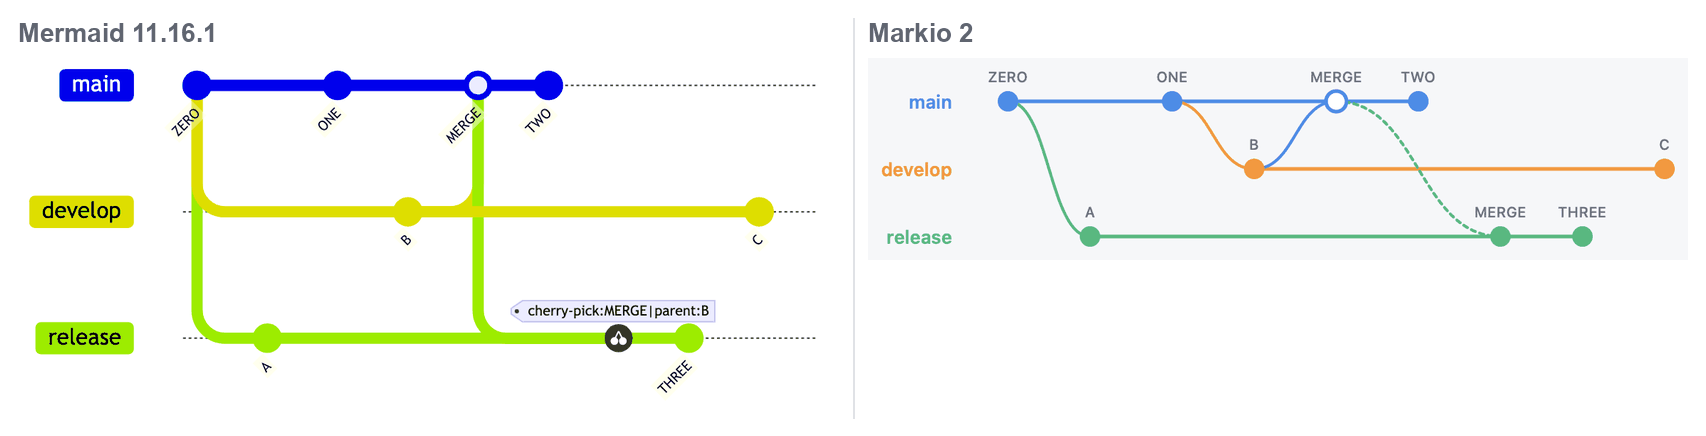
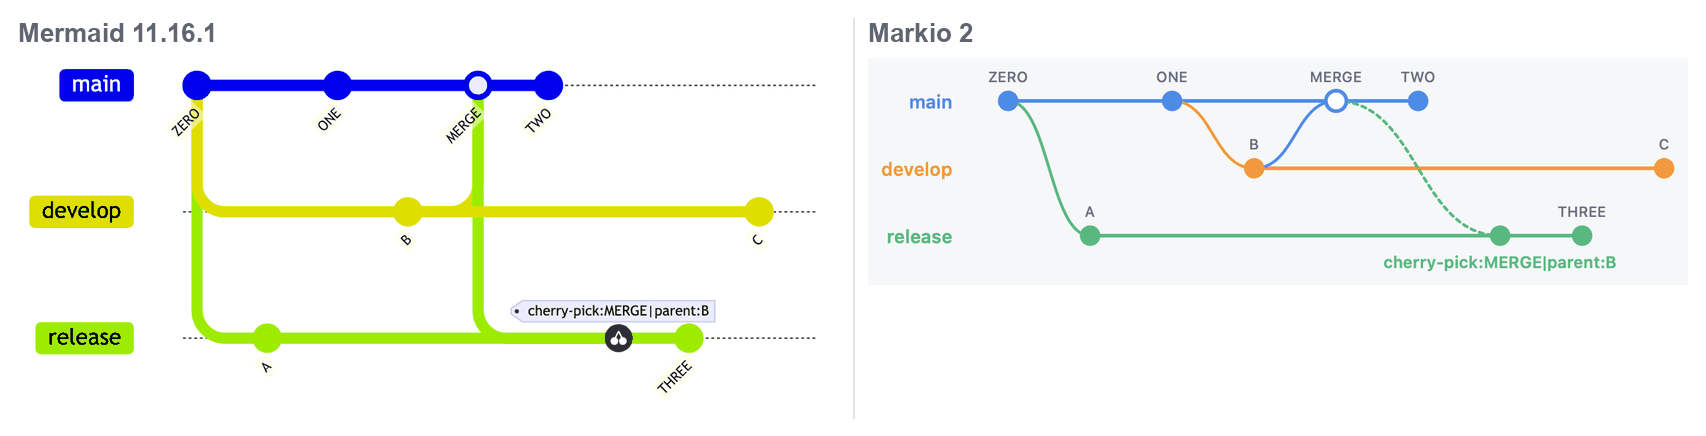
fix: let a cherry-pick say that it is one
A copy was written under the name of the commit it copied, so two dots on two
lanes claimed to be the same commit. It now carries the tag Mermaid gives it:
`cherry-pick:MERGE|parent:B` — the commit it was picked from, and the parent it
came through when that commit was a merge and so had two sides to pick from. A
tag the author wrote stands instead of it.

Two commits are never named, which is Mermaid's own rule read off the condition
it draws a commit label under: a copy, which goes by its tag, and a merge its
author did not name, which is read from the two lines meeting at it.

A tag may run to a sentence, and holding the commits far enough apart to fit one
stretched the whole graph for a single word — enough to push the last commits off
a picture that had room for them. A tag now overlaps what stands beside it, the
way it does in Mermaid, and the picture grows only by what hangs off either end.

diff --git a/Sources/MarkioRender/MermaidLayout.swift b/Sources/MarkioRender/MermaidLayout.swift
@@ -3013,18 +3013,27 @@ enum MermaidLayout {
         // commits becomes a row of them, and the branch names sit above their
         // lanes rather than beside them.
         let down = graph.vertical
+        /// What is written under a commit's dot, and nothing when nothing is.
+        ///
+        /// A commit's own name is its place in the graph unless its author gave
+        /// it one. A merge is named only by its author: a merge is read from the
+        /// two lines meeting at it, and a number under it says nothing they do
+        /// not. A copy is not named at all — it goes by the tag saying what it
+        /// was picked from. Both are Mermaid's rules, in the one condition it
+        /// writes a commit label under.
+        func named(_ order: Int, _ commit: GitGraph.Commit) -> String {
+            guard graph.names, commit.picks == nil else { return "" }
+            if commit.merges != nil { return commit.label }
+            return commit.label.isEmpty ? "\(order)" : commit.label
+        }
         // A commit is named under its dot, and a name is far wider than a dot:
         // laid across the page the commits have to stand as far apart as their
-        // names, or a row of hashes runs into itself. Down the page the names
+        // names, or a row of names runs into itself. Down the page the names
         // stack instead and the dots need no more room than they take.
         let tagFont = scaled(theme.bodyBold, by: metrics.scale * 0.8)
         let widest =
-            graph.commits.map { commit in
-                max(
-                    graph.names
-                        ? measure(text(commit.label, font: font, color: theme.palette.text)).width
-                        : 0,
-                    measure(text(commit.tag, font: tagFont, color: theme.palette.text)).width)
+            graph.commits.enumerated().map { order, commit in
+                measure(text(named(order, commit), font: font, color: theme.palette.text)).width
             }.max() ?? 0
         let step = down ? 56 * metrics.scale : max(56 * metrics.scale, widest + 8 * metrics.scale)
         let lane = 46 * metrics.scale
@@ -3034,9 +3043,20 @@ enum MermaidLayout {
             (graph.branches.map {
                 measure(text($0, font: branchFont, color: theme.palette.text)).height
             }.max() ?? 0) + 10 * metrics.scale
+        // A tag may say a great deal more than a name — what a copy was picked
+        // from, and through which parent — and pushing the commits apart far
+        // enough to hold it would stretch the whole graph for one word. Mermaid
+        // lets a tag overlap whatever stands beside it, so the picture grows
+        // only by what hangs off either end of it.
+        let widestTag =
+            graph.commits.map {
+                measure(text($0.tag, font: tagFont, color: theme.palette.text)).width
+            }.max() ?? 0
+        let spill = max(0, (widestTag - step) / 2)
         let content =
-            down
-            ? CGFloat(graph.branches.count) * lane : gutter + CGFloat(columns) * step
+            spill * 2
+            + (down
+                ? CGFloat(graph.branches.count) * lane : gutter + CGFloat(columns) * step)
         let height =
             down
             ? metrics.padding * 2 + nameHeight + CGFloat(columns) * step
@@ -3045,10 +3065,11 @@ enum MermaidLayout {
         let left = max(metrics.padding, (width - content) / 2)
         /// How far along its lane a commit stands, and how far across the lanes.
         func along(_ column: Int) -> CGFloat {
-            (down ? metrics.padding + nameHeight : left + gutter) + step * (CGFloat(column) + 0.5)
+            (down ? metrics.padding + nameHeight : left + spill + gutter)
+                + step * (CGFloat(column) + 0.5)
         }
         func across(_ branch: Int) -> CGFloat {
-            (down ? left : metrics.padding) + lane * (CGFloat(branch) + 0.5)
+            (down ? left + spill : metrics.padding) + lane * (CGFloat(branch) + 0.5)
         }
         func centre(of commit: GitGraph.Commit) -> CGPoint {
             down
@@ -3082,7 +3103,7 @@ enum MermaidLayout {
                             x: side - size.width / 2,
                             y: metrics.padding + size.height - descent(line))
                         : CGPoint(
-                            x: left + gutter - 10 * metrics.scale - size.width,
+                            x: left + spill + gutter - 10 * metrics.scale - size.width,
                             y: side + size.height / 2 - descent(line))))
         }
         // A branch is drawn from where it left its parent and a merge back to
@@ -3181,17 +3202,16 @@ enum MermaidLayout {
             }
             // A name goes above the dot and a tag below, so the two never land
             // on each other.
-            // Every commit is named under the graph, whether its author named
-            // it or not: a row of unlabelled dots says nothing about which
-            // commit is which. What stands there is the commit's place in the
-            // graph. Mermaid writes that place and then a random string — "a
-            // unique & random ID", as its own documentation puts it — and a
-            // string that is different every time the picture is drawn is not
-            // a hash of anything. Writing one here would show the reader an
-            // identifier that refers to nothing. A graph whose author turned
-            // `showCommitLabel` off is drawn as its branches alone.
-            let name = graph.names ? (commit.label.isEmpty ? "\(order)" : commit.label) : ""
-            for (words, above) in [(name, true), (commit.tag, false)] where !words.isEmpty {
+            // A commit that has a name is named under the graph, whether its
+            // author named it or not: a row of unlabelled dots says nothing
+            // about which commit is which. What stands there is the commit's
+            // place in the graph. Mermaid writes that place and then a random
+            // string — "a unique & random ID", as its own documentation puts it
+            // — and a string that is different every time the picture is drawn
+            // is not a hash of anything. Writing one here would show the reader
+            // an identifier that refers to nothing.
+            for (words, above) in [(named(order, commit), true), (commit.tag, false)]
+            where !words.isEmpty {
                 let line = text(
                     words, font: above ? font : tagFont,
                     color: above ? theme.palette.secondaryText : colour)

diff --git a/Tests/MarkioRenderTests/MermaidTests.swift b/Tests/MarkioRenderTests/MermaidTests.swift
@@ -1626,7 +1626,11 @@ final class MermaidTests: XCTestCase {
                 """)
         else { return XCTFail("expected a git graph") }
         XCTAssertEqual(graph.branches, ["MetroLine1", "dev"])
-        XCTAssertEqual(graph.commits.map(\.label), ["A", "B", "MERGE", "MERGE"])
+        // The copy does not go by the name of the commit it copied. It says what
+        // it is instead, and names the parent it came through because a merge
+        // has two sides to pick from.
+        XCTAssertEqual(graph.commits.map(\.label), ["A", "B", "MERGE", ""])
+        XCTAssertEqual(graph.commits.map(\.tag), ["", "", "", "cherry-pick:MERGE|parent:B"])
         XCTAssertEqual(graph.commits[3].picks, 2)
         // A parent nobody committed is not a parent.
         XCTAssertNil(
@@ -2131,7 +2135,10 @@ final class MermaidTests: XCTestCase {
                     cherry-pick id: "B"
                 """)
         else { return XCTFail("a cherry-pick is read") }
-        XCTAssertEqual(graph.commits.map(\.label), ["A", "B", "B"])
+        XCTAssertEqual(graph.commits.map(\.label), ["A", "B", ""])
+        // Picked from an ordinary commit there is one side only, so the tag
+        // names the commit and stops there.
+        XCTAssertEqual(graph.commits[2].tag, "cherry-pick:B")
         XCTAssertEqual(graph.commits[2].picks, 1)
         XCTAssertEqual(graph.commits[2].branch, 0)
         XCTAssertNil(graph.commits[2].merges)

diff --git a/Sources/MarkioRender/MermaidPlots.swift b/Sources/MarkioRender/MermaidPlots.swift
@@ -363,9 +363,20 @@ struct GitGraph {
                     options.parent.isEmpty
                         || graph.commits.contains(where: { $0.label == options.parent })
                 else { return nil }
+                // The copy is not the commit it copied and does not go by its
+                // name. What it says for itself is what it is: a tag naming the
+                // commit it was picked from, and — when that commit was a merge,
+                // which has two sides to pick from — the parent it came through.
+                // The author may write a tag of their own instead.
+                let said =
+                    options.tag.isEmpty
+                    ? "cherry-pick:\(options.id)"
+                        + (graph.commits[source].merges == nil
+                            ? "" : "|parent:\(options.parent)")
+                    : options.tag
                 graph.commits.append(
                     Commit(
-                        label: options.id, tag: options.tag, branch: current, column: column,
+                        label: "", tag: said, branch: current, column: column,
                         merges: nil, picks: source, kind: options.kind))
                 tips[current] = graph.commits.count - 1
                 column += 1

diff --git a/documents/design.md b/documents/design.md
@@ -611,7 +611,12 @@ branch left its parent or merged back — so a lane is never a line floating on
 its own. `gitGraph TB:` turns the lanes down the page rather than across it:
 the same graph, with the two axes swapped and the branch names moved above their
 lanes. A `cherry-pick` is drawn as a dotted line back to the commit it copied,
-because a copy is the same work said twice rather than one line running on.
+because a copy is the same work said twice rather than one line running on, and
+it says so in a tag: `cherry-pick:MERGE|parent:B` — the commit it was picked
+from, and, when that commit was a merge and so had two sides to pick from, the
+parent it came through. Without that tag the copy is a dot on a lane with a
+dotted line running off it and nothing saying what it is. A tag the author wrote
+stands instead of it.
 A commit nobody named is written by its place in the graph — the first is `0`,
 the next `1` — because that is the half of Mermaid's own name for it that means
 anything. The other half is, in the words of Mermaid's own documentation, "a
@@ -621,9 +626,16 @@ a string of that shape here would put an identifier in front of the reader that
 refers to nothing, and working one out from the source instead would only make
 the invention repeatable. `showCommitLabel: false` takes the names away
 altogether, which is what an author who does not want them writes; a tag is not
-a name and stays. The names set how far apart the commits stand across the page:
-a name is far wider than the dot it belongs to, and Mermaid turns its names on
-their side to fit them where this one gives them the room. What a commit
+a name and stays. Two commits are never named: a copy, which goes by its tag,
+and a merge its author did not name, which is read from the two lines meeting at
+it and says nothing more for a number under it. Those are Mermaid's own three
+rules, written in the one condition it draws a commit label under. The names set
+how far apart the commits stand across the page: a name is far wider than the dot
+it belongs to, and Mermaid turns its names on their side to fit them where this
+one gives them the room. A tag is not allowed the same say — it may run to a
+sentence, and holding the commits that far apart would stretch the whole graph
+for one word — so a tag overlaps whatever stands beside it and the picture grows
+only by what hangs off either end. What a commit
 is decides how its
 dot is drawn: a merge is hollow because it is the one commit belonging to two
 lines at once, a `REVERSE` is crossed out, a `HIGHLIGHT` is ringed. A `type:`
